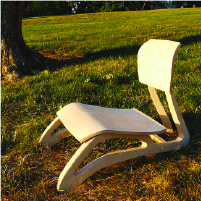
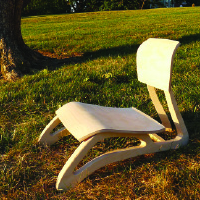
Personal projects section is now fully functional, though may have a few graphic design things to change

diff --git a/src/pages/personal-projects/PersonalProjects.vue b/src/pages/personal-projects/PersonalProjects.vue
@@ -1,21 +1,28 @@
 <template>
   <div :class="'w-screen bg-' + store.backgroundColor">
-    <main class="max-w-[980px]">
-      <ImageGallery :image-set="currentProject.images"></ImageGallery>
-      <div class="flex justify-between">
-        <div
-          v-for="project in projects"
-          :key="project"
-          class="cursor-pointer"
-          @click="setProject(project)"
-        >
-          <h3>{{ project.name }}</h3>
-          <img
-            :src="`/src/pages/personal-projects/images/${project.thumbnail}`"
-            alt=""
-            class="rounded-full"
-          />
+    <main class="max-w-245 h-[95vh] mx-auto px-3">
+      <div class="flex flex-col gap-5 align-center">
+        <div class="flex justify-between flex-wrap">
+          <div
+            v-for="project in projects"
+            :key="project"
+            class="cursor-pointer max-w-48 flex flex-col justify-between"
+            @click="setProject(project)"
+          >
+            <h3 class="text-center text-white wrap-anywhere">{{ project.name }}</h3>
+            <img
+              :src="`/src/pages/personal-projects/images/${project.thumbnail}`"
+              alt=""
+              class="rounded-full"
+            />
+          </div>
         </div>
+        <ImageGallery
+          :name="currentProject.name"
+          :description="currentProject.description"
+          :thumbnail="currentProject.thumbnail"
+          :images="currentProject.images"
+        />
       </div>
     </main>
   </div>
@@ -34,6 +41,8 @@ store.setBackgroundColor('summer')
 const projects = [
   {
     name: 'Breathe Chair',
+    description:
+      'A student project to design a chair based on a poem, taking mercurial meanings and turning them alchemy-like into a physical object. I took inspiration for a humble form from a haiku and used bent plywood to make a pleasing and ergonomic form.',
     thumbnail: 'chair_project/00-chair-icon.jpg',
     images: [
       'chair_project/01-initial-chair-sketches.jpg',
@@ -45,6 +54,8 @@ const projects = [
   },
   {
     name: 'Fence Flower Pot',
+    description:
+      'After seeing a similar flowerpot I had made, a friend commisioned me to design and print a version that would fit his fence. Though he lived thousands of miles away&comma; I was able to use the measurments provided to create a modular bracket that fit snuggly and allowed his plant friends to get enough sunlight, drain properly, and avoid cat-tastrophes &#128576;',
     thumbnail: 'flower_pot/00_flower-pot-icon.jpg',
     images: [
       'flower_pot/01_initial_sketch.jpg',
@@ -56,6 +67,7 @@ const projects = [
   },
   {
     name: 'Sketches',
+    description: 'Periodically I like to catch up on making some art.',
     thumbnail: 'sketches/00-fringilla-icon.jpg',
     images: [
       'sketches/01-fringilla.jpg',

diff --git a/src/components/ImageGallery.vue b/src/components/ImageGallery.vue
@@ -1,18 +1,16 @@
 <template>
-  <div class="flex w-full gap-3">
-    <img
-      :src="`/src/pages/personal-projects/images/${heroImage}`"
-      alt=""
-      class="w-2/3 object-scale-down"
-    />
-    <div class="flex-col w-1/3">
+  <div class="flex flex-col w-full gap-3">
+    <h2 class="text-white">{{ projectData.name }}</h2>
+    <p class="text-white">{{ projectData.description }}</p>
+    <img :src="`/src/pages/personal-projects/images/${heroImage}`" alt="" class="w-full" />
+    <div class="flex justify-between gap-2">
       <img
-        v-for="image in images.imageSet"
+        v-for="image in projectData.images"
         :src="`/src/pages/personal-projects/images/${image}`"
         alt=""
         :key="image"
         @click="imageChange(image)"
-        class="cursor-pointer"
+        class="cursor-pointer basis-auto max-h-32 w-full object-cover"
       />
     </div>
   </div>
@@ -21,23 +19,29 @@
 <script setup>
 import { ref, defineProps, watch } from 'vue'
 
-let images = defineProps({
-  imageSet: {
+let projectData = defineProps({
+  name: {
+    type: String,
+  },
+  description: {
+    type: String,
+  },
+  thumbnail: {
+    type: String,
+  },
+  images: {
     type: Array,
   },
 })
 
-let heroImage = ref(images.imageSet[0])
-
-console.log(images.imageSet[0])
+let heroImage = ref(projectData.images[0])
 
 function imageChange(image) {
-  console.log(image)
   heroImage.value = image
 }
 
-watch(images, (newImage) => {
-  imageChange(newImage.imageSet[0])
+watch(projectData, (newImage) => {
+  imageChange(newImage.images[0])
 })
 
 // const files = require('@/pages')

diff --git a/src/components/ProjectItem.vue b/src/components/ProjectItem.vue
@@ -818,16 +818,16 @@
 
 <script setup>
 const spinCss = [
-  'animate-[spin_16s_linear_infinite]',
-  'animate-[spin_18s_linear_infinite]',
+  'animate-[spin_10s_linear_infinite]',
   'animate-[spin_20s_linear_infinite]',
-  'animate-[spin_22s_linear_infinite]',
-  'animate-[spin_24s_linear_infinite]',
-  'animate-[spin_26s_linear_infinite]',
-  'animate-[spin_28s_linear_infinite]',
   'animate-[spin_30s_linear_infinite]',
-  'animate-[spin_32s_linear_infinite]',
-  'animate-[spin_34s_linear_infinite]',
+  'animate-[spin_40s_linear_infinite]',
+  'animate-[spin_50s_linear_infinite]',
+  'animate-[spin_60s_linear_infinite]',
+  'animate-[spin_70s_linear_infinite]',
+  'animate-[spin_80s_linear_infinite]',
+  'animate-[spin_90s_linear_infinite]',
+  'animate-[spin_100s_linear_infinite]',
 ]
 
 function randomSpin() {

diff --git a/src/components/NavBar.vue b/src/components/NavBar.vue
@@ -1,5 +1,5 @@
 <template>
-  <div :class="`bg-${store.navbarColor} py-3`">
+  <div :class="`bg-${store.navbarColor} p-3`">
     <div class="flex justify-between items-center max-w-245 mx-auto">
       <header>
         <RouterLink to="/" class="no-underline text-white font-bold">

diff --git a/assets/css/tailwind.css b/assets/css/tailwind.css
@@ -48,6 +48,12 @@
     margin-bottom: 0.5em;
   }
 
+  h3 {
+    font-size: 1.25em;
+    font-weight: bold;
+    margin-bottom: 0.5em;
+  }
+
   .h1-inline {
     display: inline;
   }
